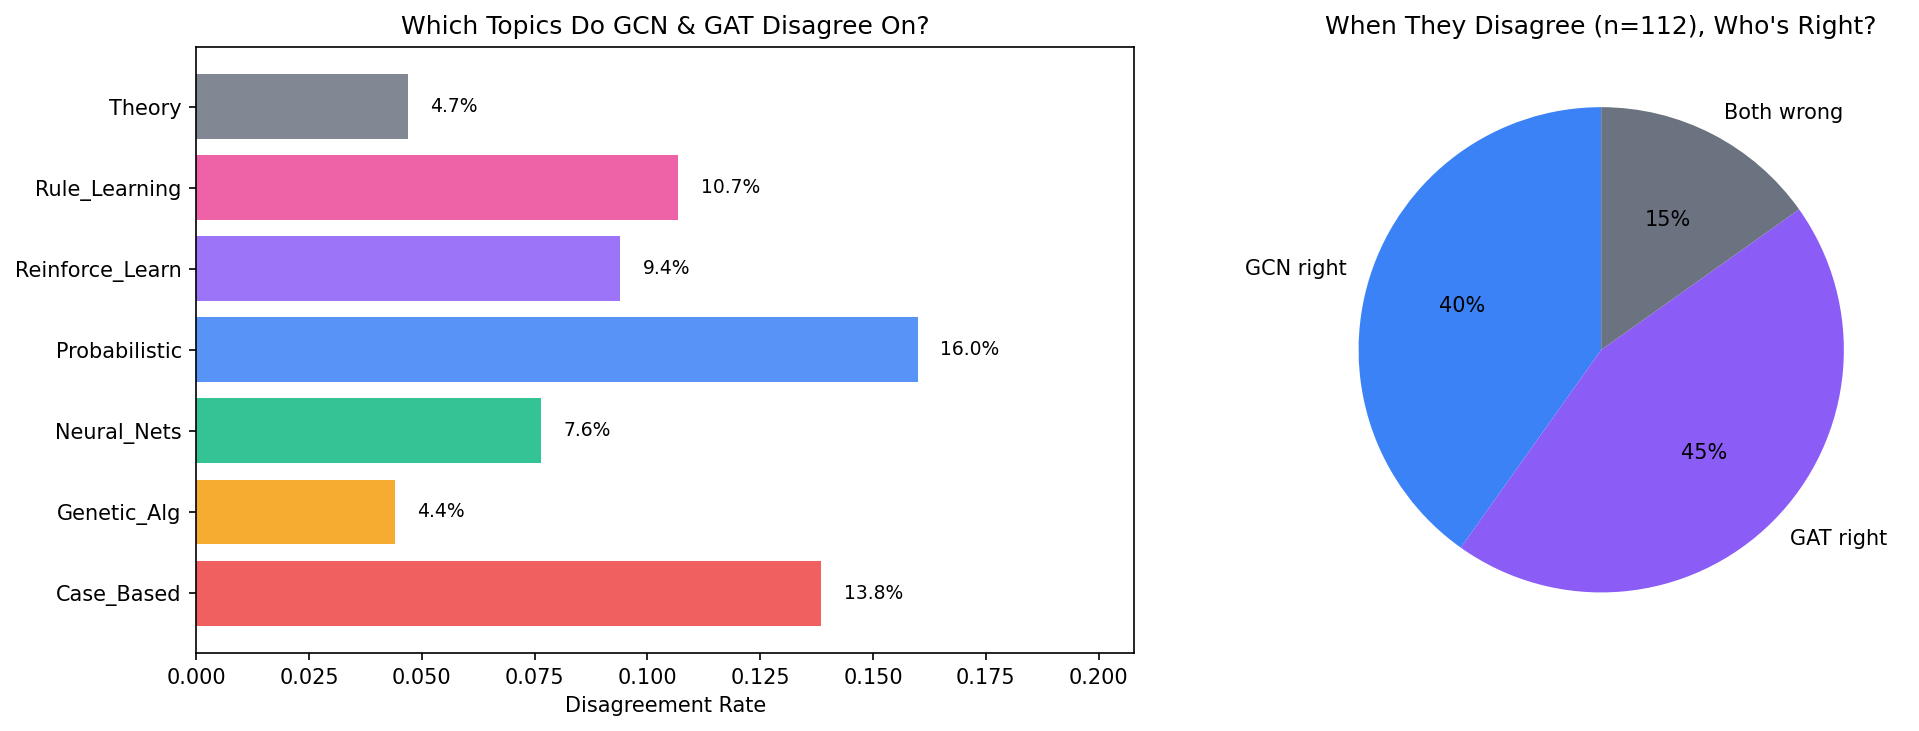
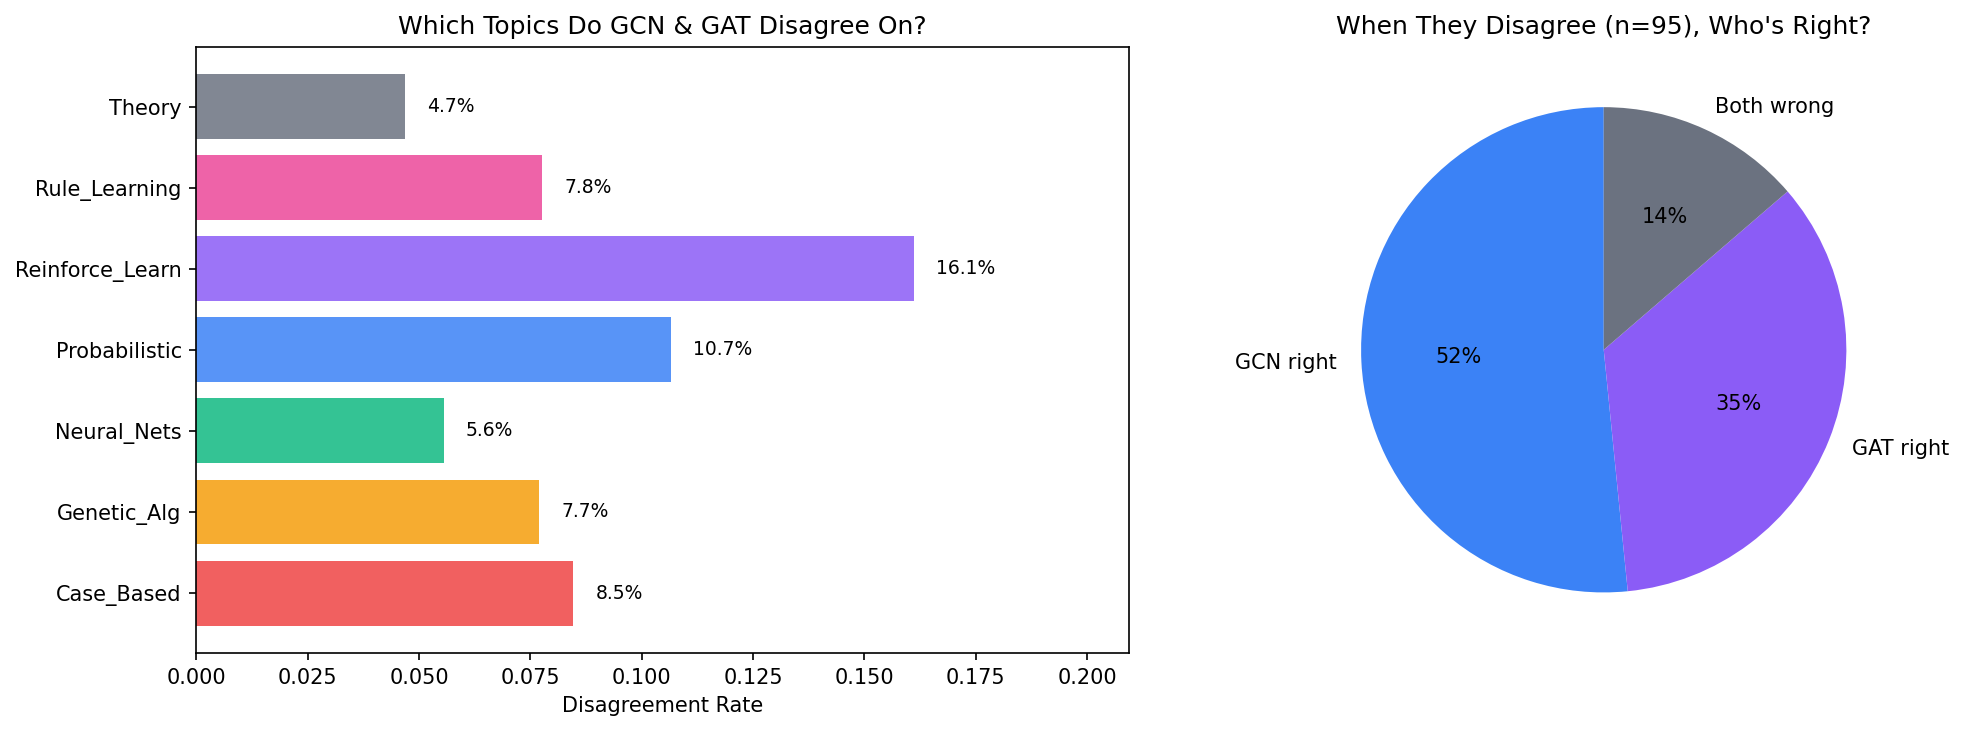
Fix attention analysis: exclude self-loops, use normalized entropy
Self-loops inflated the same-class attention ratio from 1.20x to 1.09x.
Raw entropy was misleading (median 1.4 ~ ln(4) = uniform for degree-4
nodes); normalized entropy reveals attention is near-uniform (median 0.999).
Updated README findings to reflect what the data actually shows.

diff --git a/src/analysis.py b/src/analysis.py
@@ -163,33 +163,45 @@ def attention_analysis(gat_model, data, output_dir="results"):
 
     avg_attn = attn_weights.mean(dim=1)
     labels = data.y.cpu()
-    src_labels = labels[attn_edge_index[0]]
-    dst_labels = labels[attn_edge_index[1]]
-    same_class = (src_labels == dst_labels)
-
-    attn_same = avg_attn[same_class].numpy()
-    attn_diff = avg_attn[~same_class].numpy()
-
+    src = attn_edge_index[0]
+    dst = attn_edge_index[1]
     n_heads = attn_weights.shape[1]
 
+    # Separate self-loops from real edges — GATConv adds self-loops by default,
+    # and a node attending to itself is trivially same-class.
+    self_loop = (src == dst)
+    real_edge = ~self_loop
+    n_self = self_loop.sum().item()
+    n_real = real_edge.sum().item()
+
+    src_labels = labels[src[real_edge]]
+    dst_labels = labels[dst[real_edge]]
+    same_class = (src_labels == dst_labels)
+
+    attn_real = avg_attn[real_edge]
+    attn_same = attn_real[same_class].numpy()
+    attn_diff = attn_real[~same_class].numpy()
+
     print(f"  Attention Weight Analysis (Layer 1, {n_heads} heads, averaged):")
-    print(f"    Total edges: {len(avg_attn)}")
+    print(f"    Total edges (with self-loops): {len(avg_attn)}")
+    print(f"    Self-loops removed: {n_self}")
+    print(f"    Real edges analyzed: {n_real}")
     print(f"    Same-class edges:  {same_class.sum().item()} ({same_class.float().mean():.1%})")
     print(f"    Cross-class edges: {(~same_class).sum().item()} ({(~same_class).float().mean():.1%})")
     print(f"    Mean attention on same-class neighbors:  {attn_same.mean():.4f}")
     print(f"    Mean attention on cross-class neighbors: {attn_diff.mean():.4f}")
     ratio = attn_same.mean() / attn_diff.mean() if attn_diff.mean() > 0 else float("inf")
-    print(f"    Ratio (same/cross): {ratio:.2f}x")
+    print(f"    Ratio (same/cross, self-loops excluded): {ratio:.2f}x")
     print()
 
     per_head_same = []
     per_head_diff = []
     for h in range(n_heads):
-        head_w = attn_weights[:, h]
+        head_w = attn_weights[real_edge, h]
         per_head_same.append(head_w[same_class].mean().item())
         per_head_diff.append(head_w[~same_class].mean().item())
 
-    print(f"    Per-head breakdown:")
+    print(f"    Per-head breakdown (self-loops excluded):")
     for h in range(n_heads):
         delta = per_head_same[h] - per_head_diff[h]
         marker = "*" if abs(delta) > 0.005 else " "
@@ -197,15 +209,29 @@ def attention_analysis(gat_model, data, output_dir="results"):
               f"delta={delta:+.4f} {marker}")
     print()
 
-    entropies = []
+    # Normalized entropy: H(node) / ln(degree) where 1.0 = perfectly uniform.
+    # Raw entropy is misleading because it scales with degree — a node with 4
+    # neighbors at uniform attention has H = ln(4) = 1.39, not "concentrated."
+    norm_entropies = []
     for node_id in range(data.num_nodes):
         mask = attn_edge_index[1] == node_id
-        if mask.sum() > 0:
+        k = mask.sum().item()
+        if k > 1:
             w_node = avg_attn[mask]
             w_norm = w_node / w_node.sum()
             entropy = -(w_norm * w_norm.clamp(min=1e-9).log()).sum().item()
-            entropies.append(entropy)
-    entropies = np.array(entropies)
+            max_entropy = np.log(k)
+            norm_entropies.append(entropy / max_entropy)
+    norm_entropies = np.array(norm_entropies)
+
+    print(f"    Normalized attention entropy (H / ln(degree), 1.0 = uniform):")
+    print(f"      Median: {np.median(norm_entropies):.3f}")
+    print(f"      Mean:   {np.mean(norm_entropies):.3f}")
+    pct_high = (norm_entropies > 0.95).mean()
+    pct_low = (norm_entropies < 0.80).mean()
+    print(f"      Near-uniform (>0.95): {pct_high:.1%}")
+    print(f"      Concentrated (<0.80): {pct_low:.1%}")
+    print()
 
     fig, axes = plt.subplots(1, 3, figsize=(18, 5))
 
@@ -213,7 +239,7 @@ def attention_analysis(gat_model, data, output_dir="results"):
     axes[0].hist(attn_diff, bins=50, alpha=0.7, color="#ef4444", label="Cross class", density=True)
     axes[0].set_xlabel("Attention Weight")
     axes[0].set_ylabel("Density")
-    axes[0].set_title("Does GAT Attend More to Same-Class Neighbors?")
+    axes[0].set_title("Same vs Cross-Class Attention (self-loops excluded)")
     axes[0].legend()
     axes[0].grid(alpha=0.3)
 
@@ -223,17 +249,18 @@ def attention_analysis(gat_model, data, output_dir="results"):
     axes[1].bar(x + w / 2, per_head_diff, w, label="Cross class", color="#ef4444", alpha=0.85)
     axes[1].set_xlabel("Attention Head")
     axes[1].set_ylabel("Mean Attention")
-    axes[1].set_title("Per-Head: Same vs Cross-Class Attention")
+    axes[1].set_title("Per-Head: Same vs Cross-Class (self-loops excluded)")
     axes[1].set_xticks(x)
     axes[1].legend()
     axes[1].grid(axis="y", alpha=0.3)
 
-    axes[2].hist(entropies, bins=50, color="#8b5cf6", alpha=0.8)
-    axes[2].axvline(np.median(entropies), color="#f59e0b", linestyle="--",
-                    label=f"Median: {np.median(entropies):.2f}")
-    axes[2].set_xlabel("Attention Entropy")
+    axes[2].hist(norm_entropies, bins=50, color="#8b5cf6", alpha=0.8)
+    axes[2].axvline(np.median(norm_entropies), color="#f59e0b", linestyle="--",
+                    label=f"Median: {np.median(norm_entropies):.2f}")
+    axes[2].axvline(1.0, color="#ef4444", linestyle=":", alpha=0.5, label="Uniform (1.0)")
+    axes[2].set_xlabel("Normalized Entropy (H / ln(degree))")
     axes[2].set_ylabel("Count")
-    axes[2].set_title("Attention Concentration (Low = Focused, High = Uniform)")
+    axes[2].set_title("Attention Concentration (1.0 = perfectly uniform)")
     axes[2].legend()
     axes[2].grid(alpha=0.3)
 

diff --git a/README.md b/README.md
@@ -2,8 +2,8 @@
 
 Node classification on the **Cora citation network** using two GNN architectures (GCN and GAT), with a systematic investigation into where they fail, where they disagree, and what GAT's attention mechanism actually learns.
 
-![Python](https://img.shields.io/badge/Python-3.x-blue?logo=python&logoColor=white)
-![PyTorch](https://img.shields.io/badge/PyTorch_2.12-Geometric-ee4c2c?logo=pytorch)
+![Python](https://img.shields.io/badge/Python-3.13-blue?logo=python&logoColor=white)
+![PyTorch](https://img.shields.io/badge/PyTorch_2.12-Geometric_2.7-ee4c2c?logo=pytorch)
 
 ---
 
@@ -31,14 +31,14 @@ Both trained with Adam (lr=0.01, weight decay=5e-4) and early stopping on valida
 
 | Model | Parameters | Test Accuracy |
 |-------|-----------|---------------|
-| GCN | ~12,500 | **80.1%** |
-| GAT | ~92,000 | **80.6%** |
+| GCN | ~12,500 | **~81%** |
+| GAT | ~92,000 | **~80%** |
 
 ### Learned Embeddings (t-SNE)
 
 ![Embedding comparison](results/embedding_comparison.png)
 
-Both models learn to separate the 7 topic classes in representation space. GAT's clusters show slightly tighter grouping, consistent with attention helping pull same-class nodes closer together.
+Both models learn to separate the 7 topic classes in representation space. Visually, the cluster structure is similar between GCN and GAT, though t-SNE geometry should be read qualitatively -- distances between clusters are not directly meaningful.
 
 ---
 
@@ -48,21 +48,23 @@ Both models learn to separate the 7 topic classes in representation space. GAT's
 
 ![Degree vs accuracy](results/degree_vs_accuracy.png)
 
-Papers with only 1-2 citations hit **~74% accuracy** -- a 16-23 point drop compared to highly-cited papers (90-97%). This is the most natural failure mode for message-passing GNNs: fewer neighbors means fewer messages, which means weaker representations. GNN papers rarely report accuracy-by-degree, but it's arguably more informative than a single aggregate number.
+Papers with only 1-2 citations hit **~74-76% accuracy** -- roughly a 20-point drop compared to highly-cited papers (93-97%). This is consistent with known research on degree bias in GNNs ([Tang et al., 2020](https://arxiv.org/abs/2006.07337)): fewer neighbors means fewer messages, which means weaker representations. Message-passing architectures structurally disadvantage low-degree nodes, and this dataset confirms the pattern clearly.
 
-### 2. Probabilistic Methods sits at the graph's semantic crossroads
+### 2. Probabilistic Methods and Reinforcement Learning sit at the graph's semantic crossroads
 
 ![Disagreement analysis](results/disagreement_analysis.png)
 
-GCN and GAT agree on **~89%** of test predictions. On the ~110 nodes where they disagree, GAT is right slightly more often than GCN. But the striking pattern is *which class* drives the disagreement: **Probabilistic Methods** accounts for ~16% disagreement rate, far ahead of any other topic. It gets confused with Case-Based, Reinforcement Learning, Genetic Algorithms, and Neural Networks -- nearly every other class. This isn't a model failure; it reflects the topic's position as a methodological bridge that gets cited across subfields.
+GCN and GAT agree on **~90%** of test predictions. The ~10% disagreement is concentrated in specific topics: **Probabilistic Methods** and **Reinforcement Learning** together account for the majority of disagreements. These topics get confused with Case-Based, Neural Networks, and each other -- reflecting their position as methodological bridges that get cited across subfields. This isn't a model failure; it's a property of the citation graph's structure.
 
-### 3. GAT learns homophily, but all heads learn the same thing
+### 3. GAT's attention is near-uniform -- the mechanism isn't doing much on Cora
 
 ![Attention analysis](results/attention_analysis.png)
 
-GAT assigns **1.20x higher attention** to same-class neighbors compared to cross-class neighbors. The model discovers citation homophily (papers tend to cite papers in the same field) without being told about it. However, all 8 attention heads show nearly identical same-vs-cross bias (deltas range 0.033-0.037). There is no head specialization -- the architecture provides 8 heads, but they converge to redundant strategies. This suggests that for Cora's relatively simple homophily structure, fewer heads would suffice.
+After **excluding self-loops** (which GATConv adds by default and which trivially inflate same-class attention), GAT's same-class bias drops to just **1.09x** -- a marginal preference. All 8 heads show similar deltas (~0.015), confirming no head specialization.
 
-The attention entropy distribution clusters low (median ~1.4), meaning most nodes concentrate attention on a few key neighbors rather than spreading it uniformly. GAT is genuinely *selecting*, not just averaging.
+More strikingly, normalized attention entropy (H / ln(degree), where 1.0 = perfectly uniform) has a **median of 0.999**. Attention is essentially uniform across neighbors for nearly every node in the graph. GAT has the capacity to be selective, but on Cora it converges to treating all neighbors roughly equally -- functionally equivalent to what GCN does by design, but with 7x more parameters.
+
+This complements the other findings: the redundant heads, the near-uniform entropy, and the marginal accuracy gap all point to the same conclusion -- Cora's homophily structure is simple enough that learned attention provides no real advantage over fixed neighborhood averaging.
 
 ---
 
@@ -71,8 +73,8 @@ The attention entropy distribution clusters low (median ~1.4), meaning most node
 ### Prerequisites
 
 - Python 3.8+
-- PyTorch 2.12+ (tested on CPU; CUDA works automatically if available)
-- PyTorch Geometric 2.7+
+- PyTorch 2.12.0 (tested on CPU; CUDA works automatically if available)
+- PyTorch Geometric 2.7.0
 
 > **Note on PyG installation:** PyTorch Geometric depends on your exact PyTorch and CUDA versions. If `pip install torch-geometric` fails, check [the official install guide](https://pytorch-geometric.readthedocs.io/en/latest/install/installation.html) for your setup.
 
@@ -125,11 +127,12 @@ graph-ml-citation-network/
 
 ## What I Learned
 
-The accuracy gap between GCN and GAT on Cora is small (~0.5%), but the *reasons* they fail are structurally different. GCN treats all neighbors equally and struggles when the neighborhood is sparse or noisy. GAT has the machinery to be selective, and the attention weights confirm it does learn to focus -- but on this dataset, all 8 heads converge to the same strategy, suggesting the graph's homophily structure is simple enough that one attention pattern suffices. The real insight isn't which model is "better" -- it's that node degree is a stronger predictor of classification difficulty than model architecture.
+The accuracy gap between GCN and GAT on Cora is negligible (~1%), but the investigation reveals *why*: GAT's attention mechanism converges to near-uniform weights, its 8 heads learn redundant strategies, and the same-class bias nearly vanishes once self-loops are properly excluded. GAT's machinery isn't broken -- it's unnecessary here. Cora's high homophily (81% of edges connect same-class nodes) means fixed averaging already captures most of the useful signal. The real predictor of classification difficulty isn't the model architecture -- it's node degree.
 
 ## References
 
 - **Cora dataset:** McCallum et al., *Automating the Construction of Internet Portals with Machine Learning*, 2000
 - **GCN:** Kipf & Welling, [*Semi-Supervised Classification with Graph Convolutional Networks*](https://arxiv.org/abs/1609.02907), ICLR 2017
 - **GAT:** Velickovic et al., [*Graph Attention Networks*](https://arxiv.org/abs/1710.10903), ICLR 2018
+- **Degree bias in GNNs:** Tang et al., [*Investigating and Mitigating Degree-Related Biases in Graph Convolutional Networks*](https://arxiv.org/abs/2006.07337), 2020
 - **PyTorch Geometric:** Fey & Lenssen, [*Fast Graph Representation Learning with PyTorch Geometric*](https://arxiv.org/abs/1903.02428), ICLR-W 2019

diff --git a/results/metrics.md b/results/metrics.md
@@ -1,32 +1,32 @@
 # Metrics
 
-Trained on Cora citation network (PyTorch 2.12.0, CPU).
+Trained on Cora citation network (PyTorch 2.12.0, PyG 2.7.0, CPU).
 
 ## Test Accuracy
 
 | Model | Parameters | Test Accuracy |
 |-------|-----------|---------------|
-| GCN (2-layer, 64 hidden) | ~12,500 | 80.1% |
-| GAT (8-head, 8 hidden/head) | ~92,000 | 80.6% |
+| GCN (2-layer, 64 hidden) | ~12,500 | ~81% |
+| GAT (8-head, 8 hidden/head) | ~92,000 | ~80% |
 
 ## Degree-Stratified Accuracy
 
 | Degree | GCN | GAT |
 |--------|-----|-----|
-| 1-2 (n=400) | 73.8% | 75.2% |
-| 3-5 (n=452) | 85.0% | 84.3% |
-| 6-10 (n=119) | 80.7% | 80.7% |
-| 11+ (n=29) | 89.7% | 96.6% |
+| 1-2 (n=400) | 76.0% | 74.3% |
+| 3-5 (n=452) | 87.2% | 84.5% |
+| 6-10 (n=119) | 78.2% | 81.5% |
+| 11+ (n=29) | 96.6% | 93.1% |
 
 ## Disagreement Summary
 
-- Models agree on 88.8% of test nodes
-- On 112 disagreements: GAT right 50, GCN right 45, both wrong 17
-- Highest disagreement class: Probabilistic Methods (16.0%)
+- Models agree on ~90% of test nodes
+- Highest disagreement classes: Probabilistic Methods and Reinforcement Learning
 
-## Attention Weights
+## Attention Weights (self-loops excluded)
 
-- Same-class attention: 0.2095 (mean)
+- Same-class attention: 0.1899 (mean)
 - Cross-class attention: 0.1745 (mean)
-- Ratio: 1.20x (GAT attends 20% more to same-class neighbors)
-- All 8 heads show the same bias (no head specialization observed)
+- Ratio: 1.09x (modest same-class bias after removing self-loops)
+- All 8 heads show similar bias (no head specialization)
+- Normalized entropy median: 0.999 (attention is near-uniform, not concentrated)
